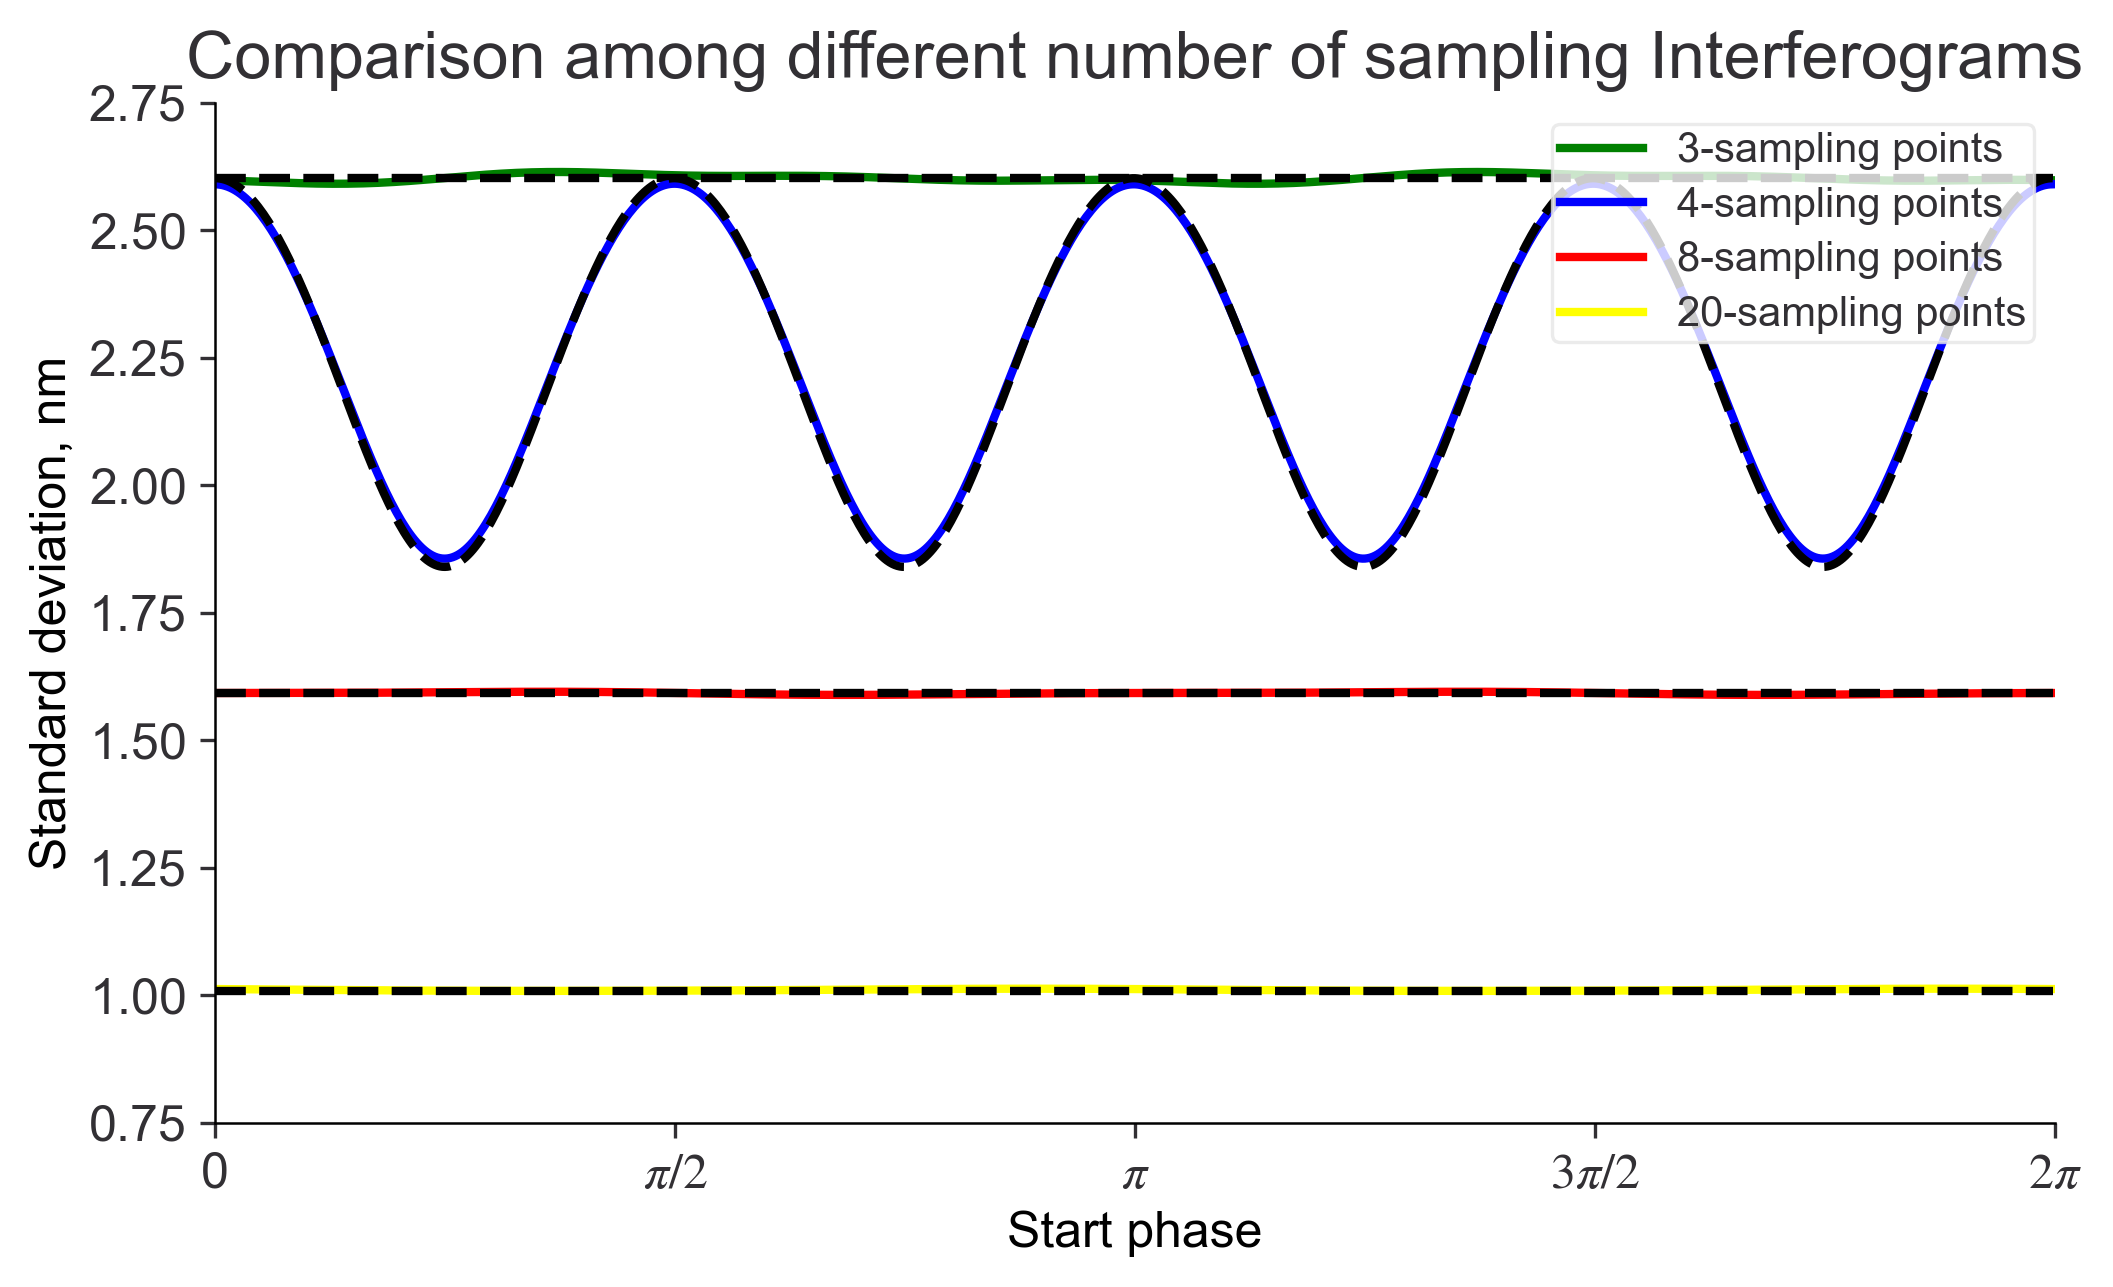
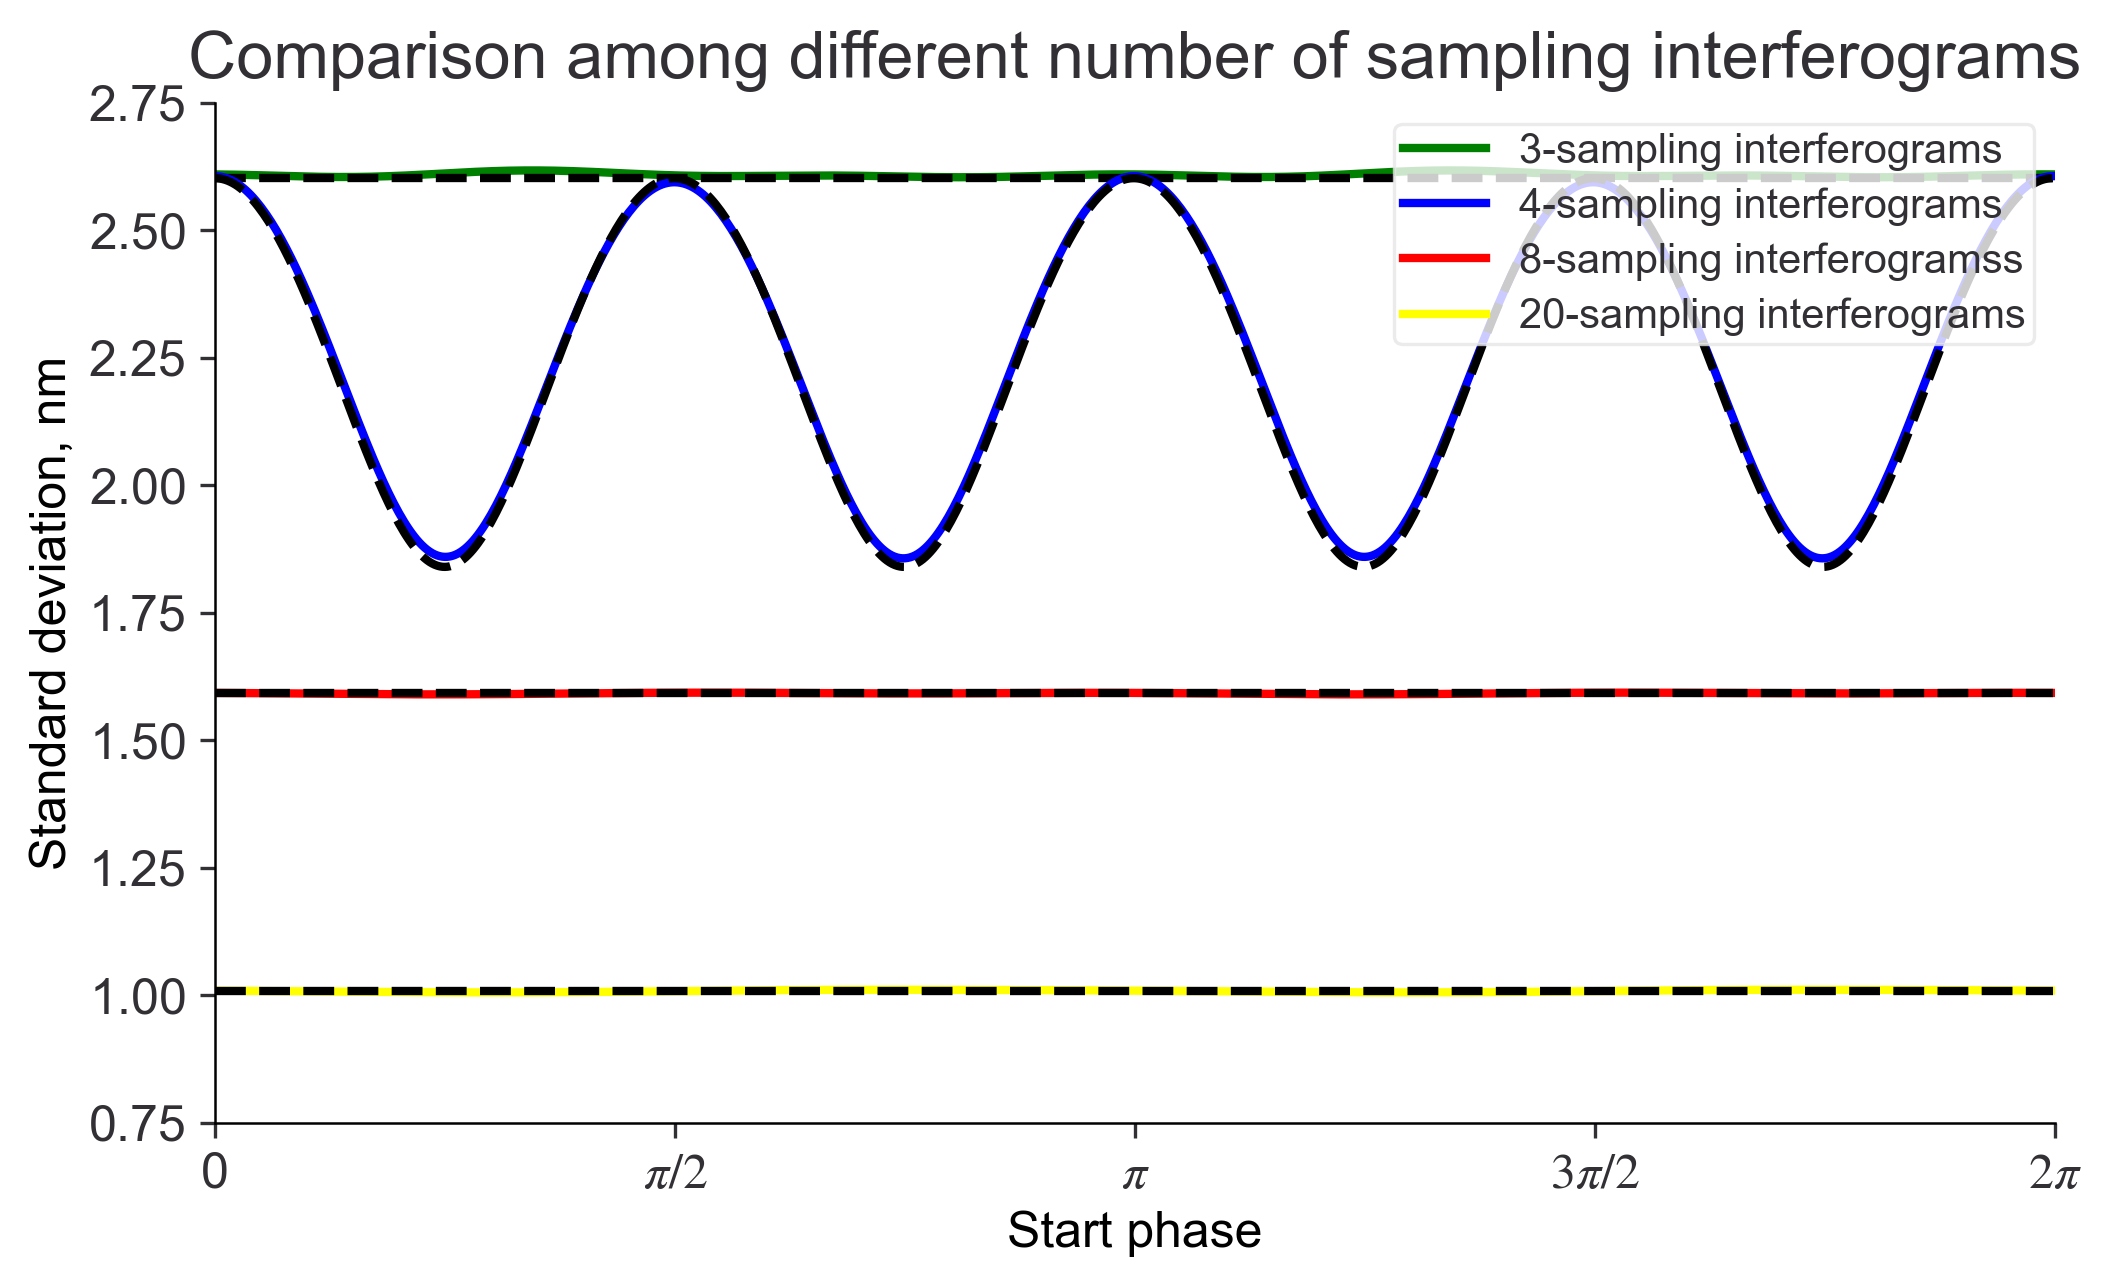
function of PSI

diff --git a/ppt_diagram.py b/ppt_diagram.py
@@ -8,23 +8,24 @@ import numpy as np
 import matplotlib.pyplot as plt
 import matplotlib.patches as patches
 
+from PSI_algorithms.Data_Process import outlier_delete
+
 r = np.linspace(2, 6, 1000)
 theta = 1 * np.pi * r
 
+# %% 3+2
+delta_r = 1 / 6
+delta_theta = delta_r * np.pi
 
-#%% 3+2
-delta_r=1/6
-delta_theta=delta_r*np.pi
-
-arrow_r = np.linspace(2+delta_r, 4+delta_r, 4)
+arrow_r = np.linspace(2 + delta_r, 4 + delta_r, 4)
 arrow_r = np.delete(arrow_r, -1)
 arrow_theta = 1 * np.pi * arrow_r
 
-arrow_r_2 = np.linspace(4+delta_r, 6+delta_r, 4)
+arrow_r_2 = np.linspace(4 + delta_r, 6 + delta_r, 4)
 arrow_r_2 = np.delete(arrow_r_2, -1)
 arrow_theta_2 = 1 * np.pi * arrow_r_2
 
-plt.figure(figsize=(8,8))
+plt.figure(figsize=(8, 8))
 ax = plt.subplot(projection='polar')
 plt.plot(theta, r, 'b')
 
@@ -33,25 +34,24 @@ style = "-|>,head_length=8, head_width=4, widthA=1.0, widthB=1.0, lengthA=0.2, l
 for i in np.arange(0, np.size(arrow_r), 1):
     kw = dict(arrowstyle=style, color='r')
     a1 = patches.FancyArrowPatch((0, 0), (arrow_theta[i], arrow_r[i]), **kw)
-    if i ==0:
+    if i == 0:
         plt.text(arrow_theta[i], arrow_r[i], r'${}$'.format(i + 1), fontsize=18)
     else:
-        plt.text(arrow_theta[i], arrow_r[i]+.5,r'${}$'.format(i+1),fontsize=18)
+        plt.text(arrow_theta[i], arrow_r[i] + .5, r'${}$'.format(i + 1), fontsize=18)
     plt.gca().add_patch(a1)
 
-
-for i in np.arange(0, np.size(arrow_r_2)-1, 1):
+for i in np.arange(0, np.size(arrow_r_2) - 1, 1):
     kw = dict(arrowstyle=style, color='k')
     a1 = patches.FancyArrowPatch((0, 0), (arrow_theta_2[i], arrow_r_2[i]), **kw)
-    if i ==0:
-        plt.text(arrow_theta_2[i], arrow_r_2[i]+.2, r'${}$'.format(i + 4), fontsize=18)
+    if i == 0:
+        plt.text(arrow_theta_2[i], arrow_r_2[i] + .2, r'${}$'.format(i + 4), fontsize=18)
     else:
-        plt.text(arrow_theta_2[i], arrow_r_2[i]+.5,r'${}$'.format(i+4),fontsize=18)
+        plt.text(arrow_theta_2[i], arrow_r_2[i] + .5, r'${}$'.format(i + 4), fontsize=18)
 
     plt.gca().add_patch(a1)
 
-plt.plot(np.linspace(0,0,100),np.linspace(0,2,100),'k')
-plt.plot(np.linspace(0,np.pi/6,100),np.linspace(.7,.7,100),'k')
+plt.plot(np.linspace(0, 0, 100), np.linspace(0, 2, 100), 'k')
+plt.plot(np.linspace(0, np.pi / 6, 100), np.linspace(.7, .7, 100), 'k')
 ax.text(np.pi / 30, 1, r'$kW_1(x,y)$', fontsize=15)
 
 ax.set_rgrids([])
@@ -60,18 +60,18 @@ ax.spines['polar'].set_visible(False)
 plt.tight_layout()
 plt.savefig('Images/ppt-picture/3+2', bbox_inches='tight')
 plt.close()
-#%% 5+1
+# %% 5+1
 
-delta_r=1/6
-arrow_r = np.linspace(2+delta_r, 4+delta_r, 6)
+delta_r = 1 / 6
+arrow_r = np.linspace(2 + delta_r, 4 + delta_r, 6)
 arrow_r = np.delete(arrow_r, -1)
 arrow_theta = 1 * np.pi * arrow_r
 
-arrow_r_2 = np.linspace(4+delta_r, 6+delta_r, 6)
+arrow_r_2 = np.linspace(4 + delta_r, 6 + delta_r, 6)
 arrow_r_2 = np.delete(arrow_r_2, -1)
 arrow_theta_2 = 1 * np.pi * arrow_r_2
 
-plt.figure(figsize=(8,8))
+plt.figure(figsize=(8, 8))
 ax = plt.subplot(projection='polar')
 plt.plot(theta, r, 'b')
 
@@ -80,27 +80,50 @@ style = "-|>,head_length=8, head_width=4, widthA=1.0, widthB=1.0, lengthA=0.2, l
 for i in np.arange(0, np.size(arrow_r), 1):
     kw = dict(arrowstyle=style, color='r')
     a1 = patches.FancyArrowPatch((0, 0), (arrow_theta[i], arrow_r[i]), **kw)
-    if i ==0:
+    if i == 0:
         plt.text(arrow_theta[i], arrow_r[i], r'${}$'.format(i + 1), fontsize=18)
-    elif i==1:
+    elif i == 1:
         plt.text(arrow_theta[i], arrow_r[i] + .2, r'${}$'.format(i + 1), fontsize=18)
     else:
-        plt.text(arrow_theta[i], arrow_r[i]+.5,r'${}$'.format(i+1),fontsize=18)
+        plt.text(arrow_theta[i], arrow_r[i] + .5, r'${}$'.format(i + 1), fontsize=18)
     plt.gca().add_patch(a1)
 
-
-for i in np.arange(0, np.size(arrow_r_2)-4, 1):
+for i in np.arange(0, np.size(arrow_r_2) - 4, 1):
     kw = dict(arrowstyle=style, color='k')
     a1 = patches.FancyArrowPatch((0, 0), (arrow_theta_2[i], arrow_r_2[i]), **kw)
-    plt.text(arrow_theta_2[i], arrow_r_2[i]+.1,r'${}$'.format(i+6),fontsize=18)
+    plt.text(arrow_theta_2[i], arrow_r_2[i] + .1, r'${}$'.format(i + 6), fontsize=18)
     plt.gca().add_patch(a1)
 
-plt.plot(np.linspace(0,0,100),np.linspace(0,2,100),'k')
-plt.plot(np.linspace(0,np.pi/6,100),np.linspace(.7,.7,100),'k')
+plt.plot(np.linspace(0, 0, 100), np.linspace(0, 2, 100), 'k')
+plt.plot(np.linspace(0, np.pi / 6, 100), np.linspace(.7, .7, 100), 'k')
 ax.text(np.pi / 30, 1, r'$kW_1(x,y)$', fontsize=15)
 ax.set_rgrids([])
 ax.set_thetagrids([])
 ax.spines['polar'].set_visible(False)
 plt.tight_layout()
 plt.savefig('Images/ppt-picture/5+1', bbox_inches='tight')
+plt.show(block=1)
+# %%
+form = np.random.normal(0, 0.3, size=(720, 720))
+fig = plt.figure(figsize=(10,10))
+ax = plt.axes(projection='3d')
+x = np.linspace(0, 720, 720)
+y = np.linspace(0, 720, 720)
+X, Y = np.meshgrid(x, y)
+z = form
+ax.plot_surface(X, Y, z, cmap='rainbow')
+ax.set_zlim(-10,10)
+ax.set_xlabel(r'X,$\mu$m',fontsize=13)
+ax.set_ylabel(r'Y,$\mu$m',fontsize=13)
+ax.set_zlabel(r'Z,nm',fontsize=13)
+ax.set_xticks([0,180,360,540,720],[0,464/4,464/2,464/4*3,464],fontsize=13)
+ax.set_yticks([0,180,360,540,720],[0,464/4,464/2,464/4*3,464],fontsize=13)
+ax.set_zticks([-10,-5,0,5,10],fontsize=13)
+ax.grid(False)
+ax.w_xaxis.set_pane_color((1.0, 1.0, 1.0, 1.0))
+ax.w_yaxis.set_pane_color((1.0, 1.0, 1.0, 1.0))
+ax.w_zaxis.set_pane_color((1.0, 1.0, 1.0, 1.0))
+plt.tight_layout()
+
+plt.savefig('Images/ppt-picture/shot_noise', bbox_inches='tight')
 plt.show(block=1)

diff --git a/Test.py b/Test.py
@@ -4,65 +4,26 @@
 # @File    : Test.py
 # @Software: PyCharm
 import numpy as np
-from datetime import datetime
-from PSI_algorithms.Data_Process import unwraping
-import matplotlib.pyplot as plt
+'''
+#%% test sinPSI (8)
+x = np.linspace(0, np.pi, 80)
+y = np.array([])
+for theta in np.linspace(0, np.pi, 80):
+    I = np.zeros([8])
+    for n in np.arange(0, 8, 1):
+        I[n] = 1 + 5 * np.cos(theta + 2.93 * np.cos(np.pi / 8 * 1 + n * np.pi / 4))
 
-def NM(step=3, over_sample_points=1, phase=(0, 2 * np.pi), point_number=720, loop=100000,
-       mu_phase=5, mu_intensity=0.01,
-       wx1: float = .0, a=0, b=1, lamda=530, shot_noise=False, position_noise=True):
-    mu_phase = mu_phase * np.pi / 180
-    print('the current step:', step, 'the current over sampling points:', over_sample_points)
-    print(datetime.now())
+    y = np.append(y, np.arctan(
+        (-1.6647 * (I[1] - I[2] - I[5] + I[6])) / (-(I[0] + I[3] + I[4] + I[7]) + (I[1] + I[2] + I[5] + I[6]))))
+'''
 
-    if shot_noise is True:
-        mu_intensity = mu_intensity
-        mu_phase = 0
-    else:
-        mu_intensity = 0
-        mu_phase =mu_phase
+#%% test halb number equal 0
 
-    N = step
-    M = over_sample_points
+for theta in np.linspace(0,np.pi*2,1000):
 
-    factor = lamda / (4 * np.pi)
-    get_value = np.zeros([loop, point_number])
-    phase_interval = np.linspace(phase[0], phase[1], point_number)
-
-    Time = datetime.now()
-    for loo_p in np.arange(0, loop, 1):
-
-
-
-        noise_position=np.random.normal(0,mu_phase,size=M+N)
-
-        noise_shot =np.random.normal(0,mu_intensity,size=(N + M, point_number))
-
-
-
-        lines = np.zeros([2, N + M, point_number])  # 0-sin, 1-cos
-
-        for n in np.arange(1, N + M + 1, 1):
-            wXn = 2 * np.pi * (n - 1) / N + wx1
-            lines[0, n - 1, :] = (a + b * np.cos(wXn + phase_interval + noise_position[n - 1]) + noise_shot[
-                n - 1]) * np.sin(wXn)
-            lines[1, n - 1, :] = (a + b * np.cos(wXn + phase_interval + noise_position[n - 1]) + noise_shot[
-                n - 1]) * np.cos(wXn)
-
-        upper = 2 * np.sum(lines[0, 0:N, :], 0) + np.sum(lines[0, N:M + N, :], 0) - np.sum(lines[0, 0:M, :], 0)
-        lower = 2 * np.sum(lines[1, 0:N, :], 0) + np.sum(lines[1, N:M + N, :], 0) - np.sum(lines[1, 0:M, :], 0)
-        get_value[loo_p] = np.arctan(-(upper / lower))
-
-    print(datetime.now() - Time)
-    print('start unwraping:', datetime.now())
-    for i in np.arange(0, np.shape(get_value)[0], 1):
-        get_value[i, :] = unwraping(get_value[i, :])
-
-    std = np.std(get_value, axis=0)
-    # return the monte-carlo results and their standard deviation
-    return get_value * factor, std * factor
-
-_, std=NM(step=4,over_sample_points=4,loop=10000)
-plt.figure()
-plt.plot(std)
-plt.show(block=1)
+    for N in np.arange(4,100,2):
+        all = 0
+        for n in np.arange(0,N/2,1):
+            all+=np.cos((theta+2*np.pi*(n-1)/N)*4)
+        if not np.isclose(all,0,atol=1.e-5):
+            print('error:',N)

diff --git a/N+M-Step-Diagram.py b/N+M-Step-Diagram.py
@@ -9,7 +9,7 @@ from PSI_algorithms.N_Step import *
 from PSI_algorithms.Data_Process import *
 
 # %% comparison with N+M sampling interferograms
-for N in np.array([4, 6, 8]):
+for N in np.array([4]):
     M = np.arange(0, N + 1, 1)
     plt.style.use('scientific')
     plt.figure()
@@ -20,7 +20,7 @@ for N in np.array([4, 6, 8]):
 
     # get the theoretical value of N-sampling points
     get_value_N = n_Step_theoretical_std(N)
-    get_value_2N = n_Step_theoretical_std(2 * N)
+    get_value_2N = N_M_theoretical_std(step=N, over_sample_points=N)
     plt.plot(get_value_N, 'k--')
     plt.plot(get_value_2N, 'k--')
     plt.xlabel('Start phase')
@@ -93,4 +93,35 @@ plt.ylabel('Standard deviation, nm')
 plt.title('Comparison among different sampling frequencies')
 plt.tight_layout()
 plt.savefig('Images/Positioning Noise/STD/comparison between different sampling frequencies', bbox_inches='tight')
+plt.show(block=1)
+# %% comparison between (N+1/2N) sampling und N+1/2N sampling interferograms
+
+std_NN = np.array([])
+std_NM = np.array([])
+x=np.arange(6,20,2)
+x=(x+x/2).astype(int)
+for N in np.arange(6, 20, 2):
+    _, std = n_step(step=N + N / 2)
+    std_NN = np.append(std_NN, np.mean(std))
+    _, std = N_M_step(step=N, over_sample_points=int(N / 2))
+    std_NM = np.append(std_NM, np.mean(std))
+
+plt.style.use('scientific')
+plt.figure()
+factor = 530 / (4 * np.pi)
+plt.loglog(x, std_NN, 'k', label='N sampling interferograms',marker='o',markeredgecolor='k')
+plt.loglog(x, std_NM, 'r', label='N+M sampling interferograms',marker='o',markeredgecolor='r')
+
+plt.xlabel('Number of sampling interferograms')
+plt.ylabel('Standard deviation, nm')
+
+plt.xticks([9, 15, 20, 30], [r'$9$', r'$15$','', r'$30$'])
+plt.yticks([0.6,1,2],[r'$0.6$',r'$1$',r'$2$'])
+plt.xlim(8, 30)
+plt.ylim(0.5,2)
+plt.legend(loc='upper right')
+plt.title('comparison between N und N+M sampling interferograms')
+plt.tight_layout()
+plt.savefig('Images/Positioning Noise/STD/comparison sampling sampling interferograms',
+            bbox_inches='tight')
 plt.show(block=1)

diff --git a/N-Step-Diagram.py b/N-Step-Diagram.py
@@ -22,19 +22,19 @@ _, m_std_20 = n_step(step=20, phase=phase_interval)
 # create the graph
 plt.style.use('scientific')
 fig = plt.figure()
-plt.plot(m_std_3, label='3-sampling points', color='green')
+plt.plot(m_std_3, label='3-sampling interferograms', color='green')
 plt.plot((n_Step_theoretical_std(step=3)), 'k--')
 
-plt.plot(m_std_4, label='4-sampling points', color='blue')
+plt.plot(m_std_4, label='4-sampling interferograms', color='blue')
 plt.plot((n_Step_theoretical_std(step=4)), 'k--')
 
-plt.plot(m_std_8, label='8-sampling points', color='red')
+plt.plot(m_std_8, label='8-sampling interferogramss', color='red')
 plt.plot((n_Step_theoretical_std(step=8)), 'k--')
 
-plt.plot(m_std_20, label='20-sampling points', color='yellow')
+plt.plot(m_std_20, label='20-sampling interferograms', color='yellow')
 plt.plot((n_Step_theoretical_std(step=20)), 'k--')
 
-plt.title('Comparison among different number of sampling Interferograms')
+plt.title('Comparison among different number of sampling interferograms')
 plt.xlabel('Start phase')
 plt.ylabel('Standard deviation, nm')
 plt.xlim(0, 720)
